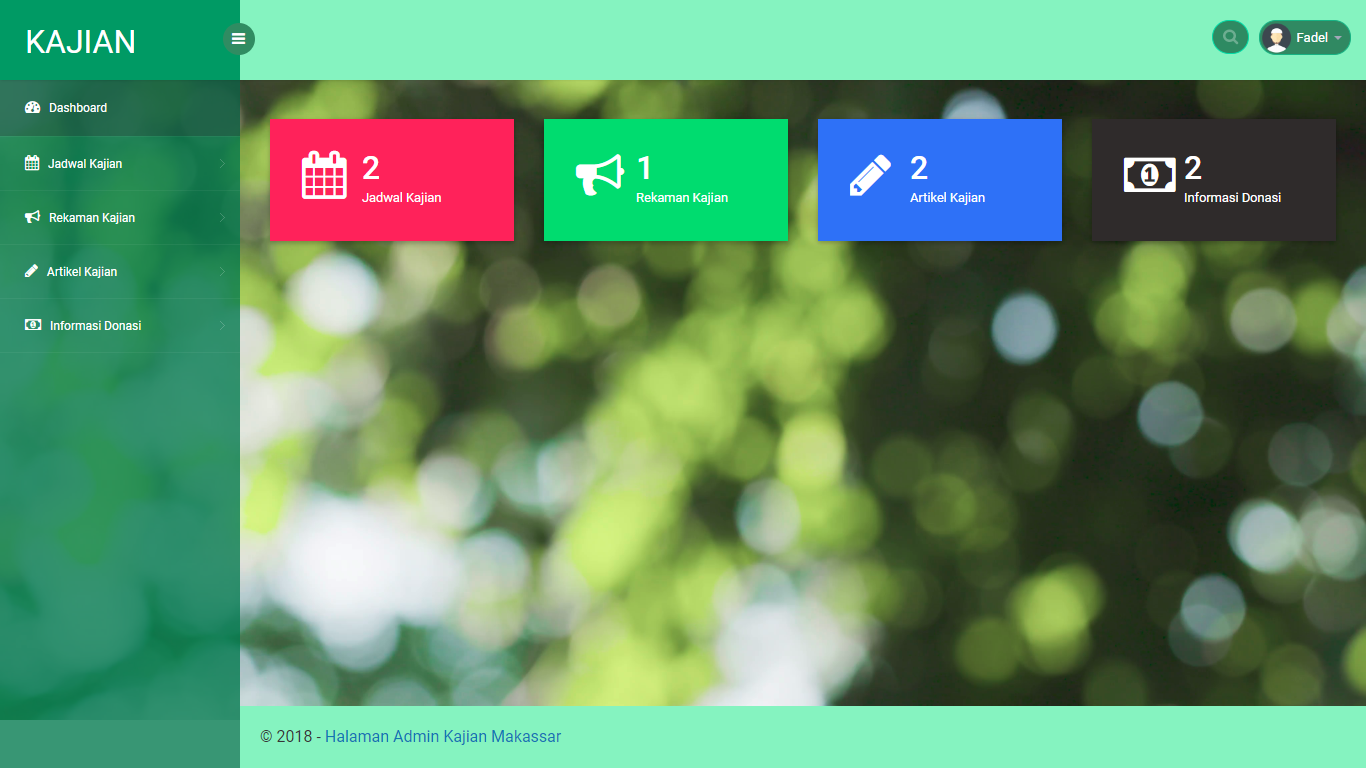
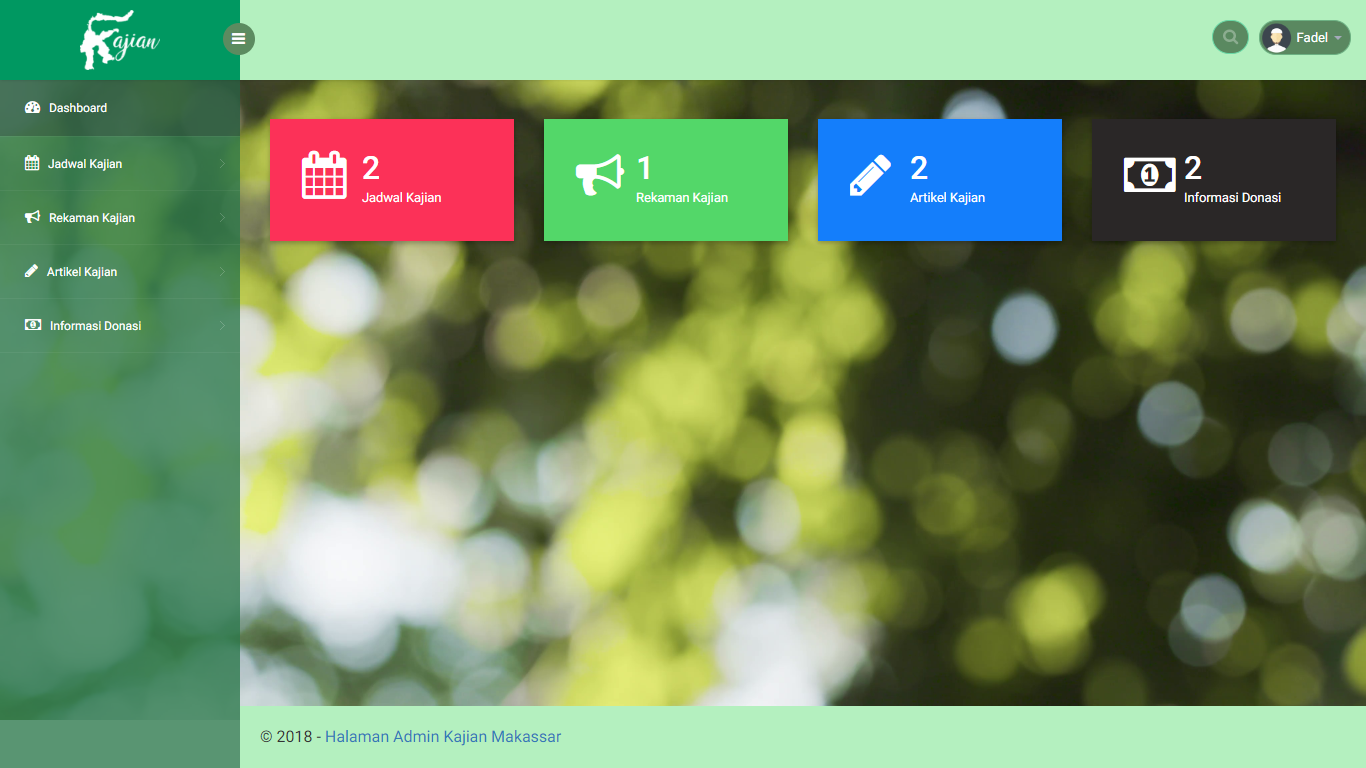
Version 1.01 - Done

diff --git a/web/artikelkajian.php b/web/artikelkajian.php
@@ -47,7 +47,7 @@ if (!isset($_SESSION['nama_user'])) {
             <!--logo start-->
             <div class="brand">
                 <a href="index.php" class="logo">
-                    KAJIAN
+                    <b><img src="images/text-logo.png" style="width:80px;left:50%;top:50%;position:absolute;margin-top:-30px;margin-left:-40px" alt=""></b>
                 </a>
                 <div class="sidebar-toggle-box">
                     <div class="fa fa-bars"></div>

diff --git a/web/index.php b/web/index.php
@@ -55,7 +55,7 @@ if (!isset($_SESSION['nama_user'])) {
             <!--logo start-->
             <div class="brand">
                 <a href="index.php" class="logo">
-                    KAJIAN
+                    <b><img src="images/text-logo.png" style="width:80px;left:50%;top:50%;position:absolute;margin-top:-30px;margin-left:-40px" alt=""></b>
                 </a>
                 <div class="sidebar-toggle-box">
                     <div class="fa fa-bars"></div>

diff --git a/web/infodonasi.php b/web/infodonasi.php
@@ -47,7 +47,7 @@ if (!isset($_SESSION['nama_user'])) {
             <!--logo start-->
             <div class="brand">
                 <a href="index.php" class="logo">
-                    KAJIAN
+                    <b><img src="images/text-logo.png" style="width:80px;left:50%;top:50%;position:absolute;margin-top:-30px;margin-left:-40px" alt=""></b>
                 </a>
                 <div class="sidebar-toggle-box">
                     <div class="fa fa-bars"></div>

diff --git a/web/jadwalkajian.php b/web/jadwalkajian.php
@@ -47,7 +47,7 @@ if (!isset($_SESSION['nama_user'])) {
             <!--logo start-->
             <div class="brand">
                 <a href="index.php" class="logo">
-                    KAJIAN
+                    <b><img src="images/text-logo.png" style="width:80px;left:50%;top:50%;position:absolute;margin-top:-30px;margin-left:-40px" alt=""></b>
                 </a>
                 <div class="sidebar-toggle-box">
                     <div class="fa fa-bars"></div>

diff --git a/web/komentarartikel.php b/web/komentarartikel.php
@@ -47,7 +47,7 @@ if (!isset($_SESSION['nama_user'])) {
             <!--logo start-->
             <div class="brand">
                 <a href="index.php" class="logo">
-                    KAJIAN
+                    <b><img src="images/text-logo.png" style="width:80px;left:50%;top:50%;position:absolute;margin-top:-30px;margin-left:-40px" alt=""></b>
                 </a>
                 <div class="sidebar-toggle-box">
                     <div class="fa fa-bars"></div>

diff --git a/web/rekamankajian.php b/web/rekamankajian.php
@@ -47,7 +47,7 @@ if (!isset($_SESSION['nama_user'])) {
             <!--logo start-->
             <div class="brand">
                 <a href="index.php" class="logo">
-                    KAJIAN
+                    <b><img src="images/text-logo.png" style="width:80px;left:50%;top:50%;position:absolute;margin-top:-30px;margin-left:-40px" alt=""></b>
                 </a>
                 <div class="sidebar-toggle-box">
                     <div class="fa fa-bars"></div>

diff --git a/web/tambahartikel.php b/web/tambahartikel.php
@@ -47,7 +47,7 @@ if (!isset($_SESSION['nama_user'])) {
             <!--logo start-->
             <div class="brand">
                 <a href="index.php" class="logo">
-                    KAJIAN
+                    <b><img src="images/text-logo.png" style="width:80px;left:50%;top:50%;position:absolute;margin-top:-30px;margin-left:-40px" alt=""></b>
                 </a>
                 <div class="sidebar-toggle-box">
                     <div class="fa fa-bars"></div>

diff --git a/web/tambahinfo.php b/web/tambahinfo.php
@@ -47,7 +47,7 @@ if (!isset($_SESSION['nama_user'])) {
             <!--logo start-->
             <div class="brand">
                 <a href="index.php" class="logo">
-                    KAJIAN
+                    <b><img src="images/text-logo.png" style="width:80px;left:50%;top:50%;position:absolute;margin-top:-30px;margin-left:-40px" alt=""></b>
                 </a>
                 <div class="sidebar-toggle-box">
                     <div class="fa fa-bars"></div>

diff --git a/web/tambahjadwal.php b/web/tambahjadwal.php
@@ -50,7 +50,7 @@ if (!isset($_SESSION['nama_user'])) {
             <!--logo start-->
             <div class="brand">
                 <a href="index.php" class="logo">
-                    KAJIAN
+                    <b><img src="images/text-logo.png" style="width:80px;left:50%;top:50%;position:absolute;margin-top:-30px;margin-left:-40px" alt=""></b>
                 </a>
                 <div class="sidebar-toggle-box">
                     <div class="fa fa-bars"></div>

diff --git a/web/tambahrekaman.php b/web/tambahrekaman.php
@@ -47,7 +47,7 @@ if (!isset($_SESSION['nama_user'])) {
             <!--logo start-->
             <div class="brand">
                 <a href="index.php" class="logo">
-                    KAJIAN
+                    <b><img src="images/text-logo.png" style="width:80px;left:50%;top:50%;position:absolute;margin-top:-30px;margin-left:-40px" alt=""></b>
                 </a>
                 <div class="sidebar-toggle-box">
                     <div class="fa fa-bars"></div>
